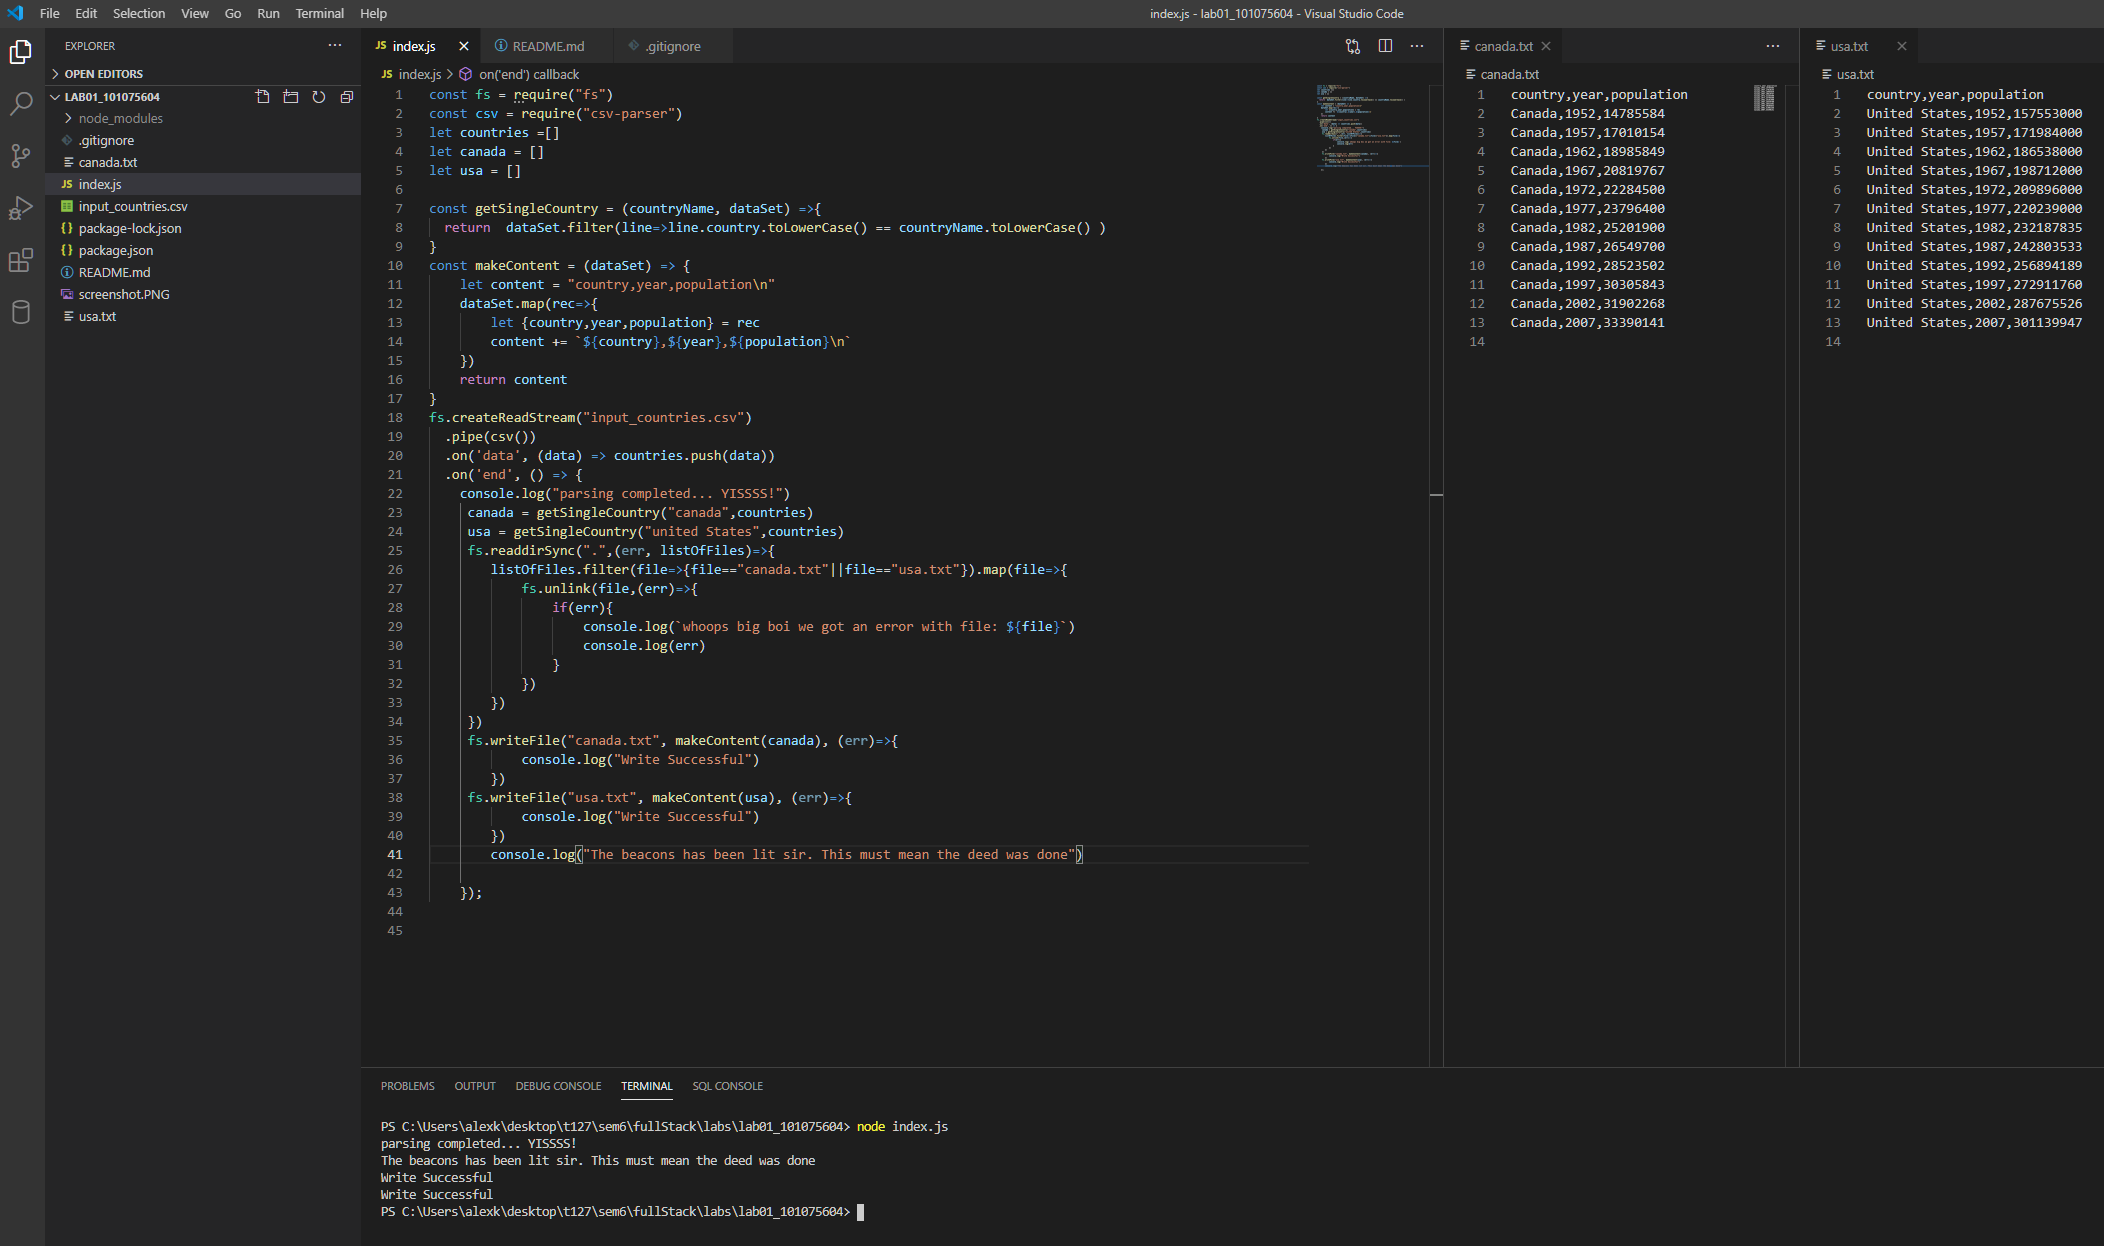
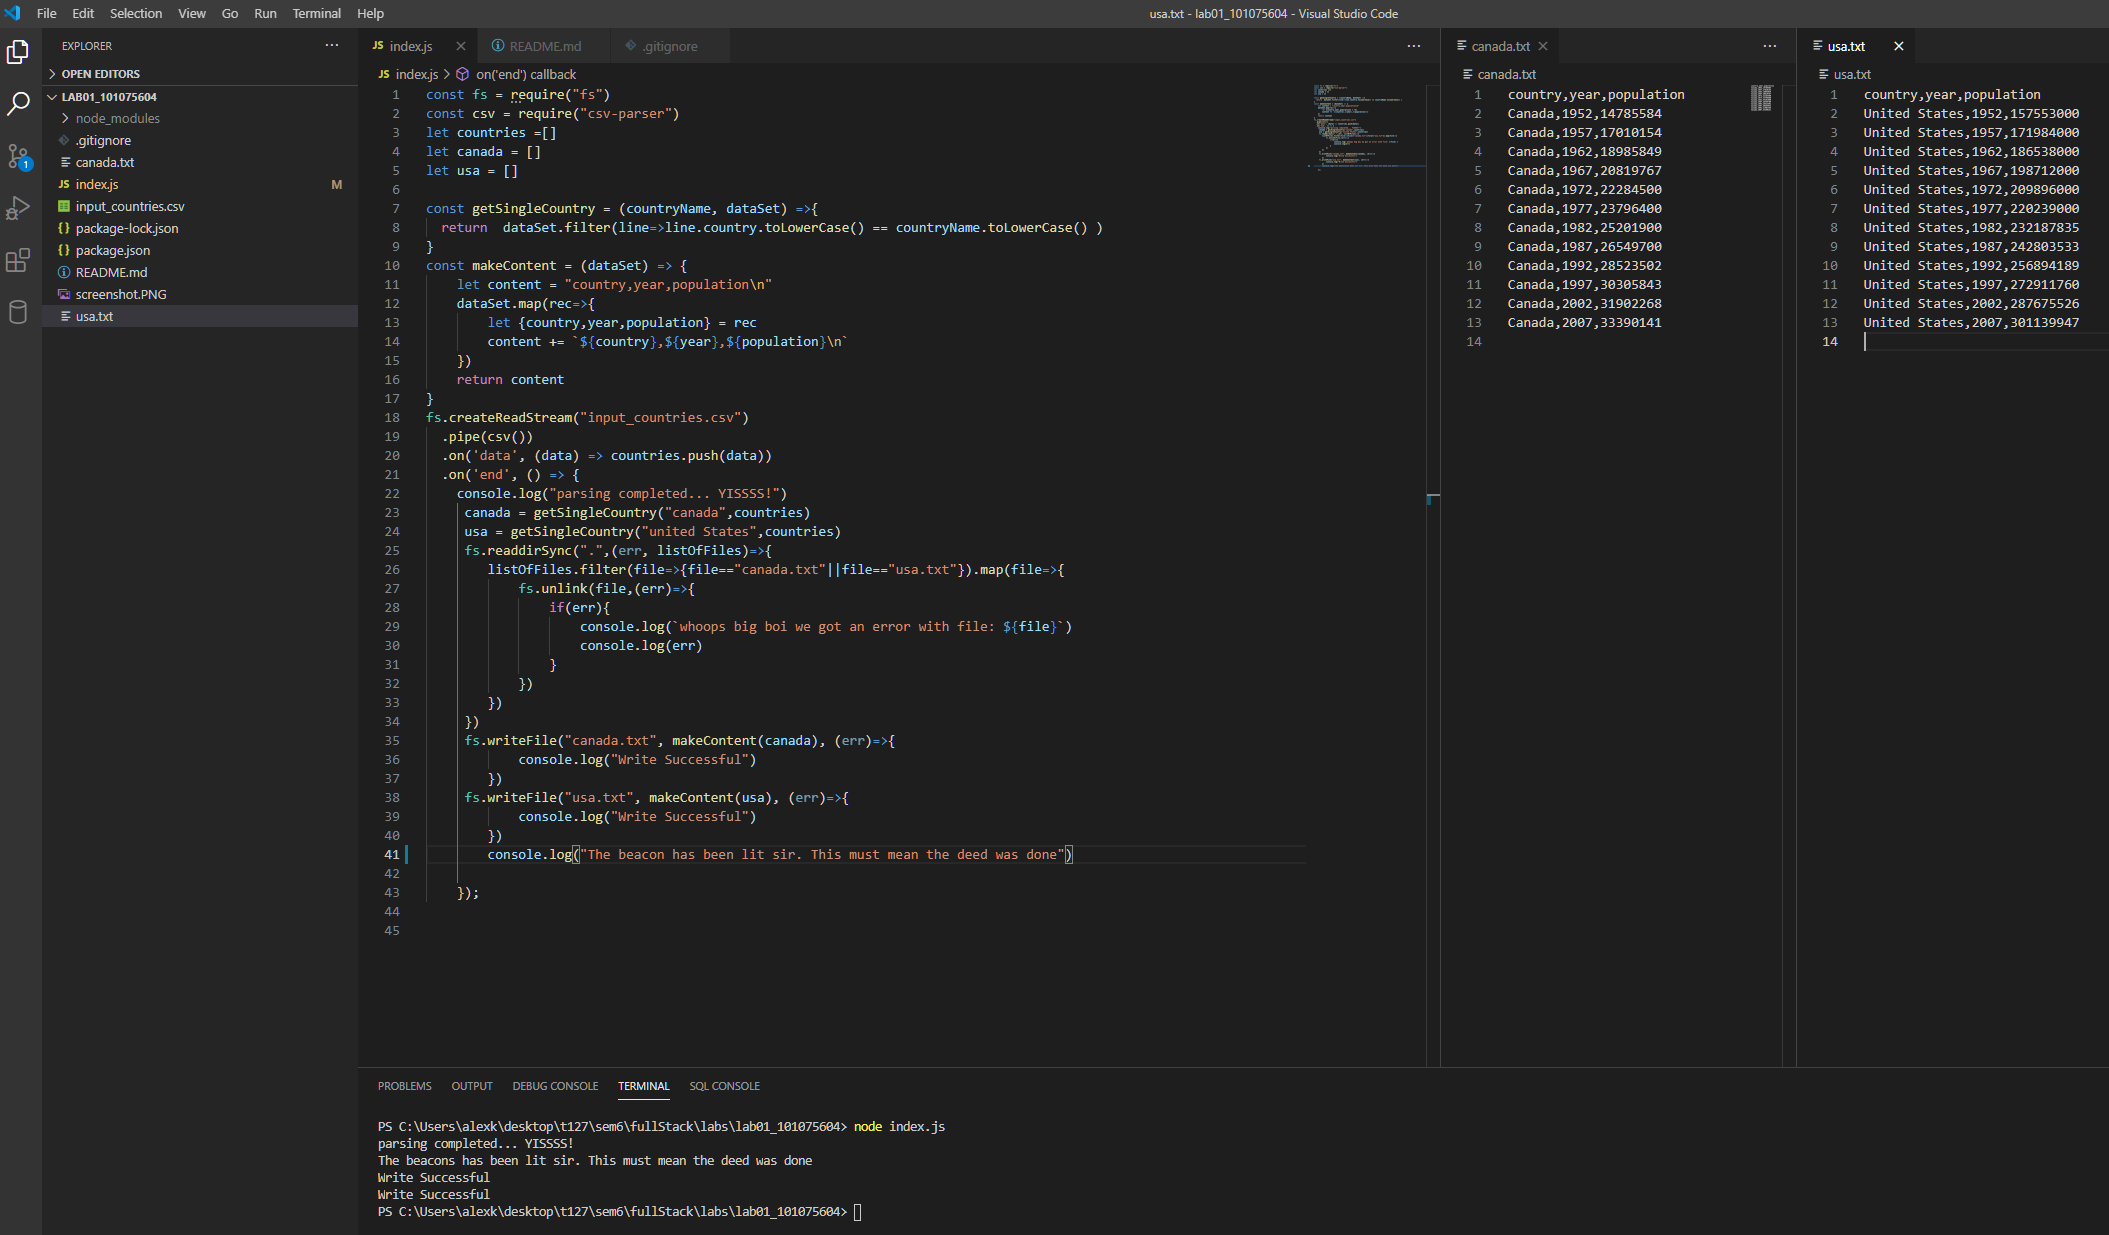
spelling mistake located

diff --git a/index.js b/index.js
@@ -38,7 +38,7 @@ fs.createReadStream("input_countries.csv")
      fs.writeFile("usa.txt", makeContent(usa), (err)=>{
             console.log("Write Successful")
         })
-        console.log("The beacons has been lit sir. This must mean the deed was done")
+        console.log("The beacon has been lit sir. This must mean the deed was done")
 
     });
 
